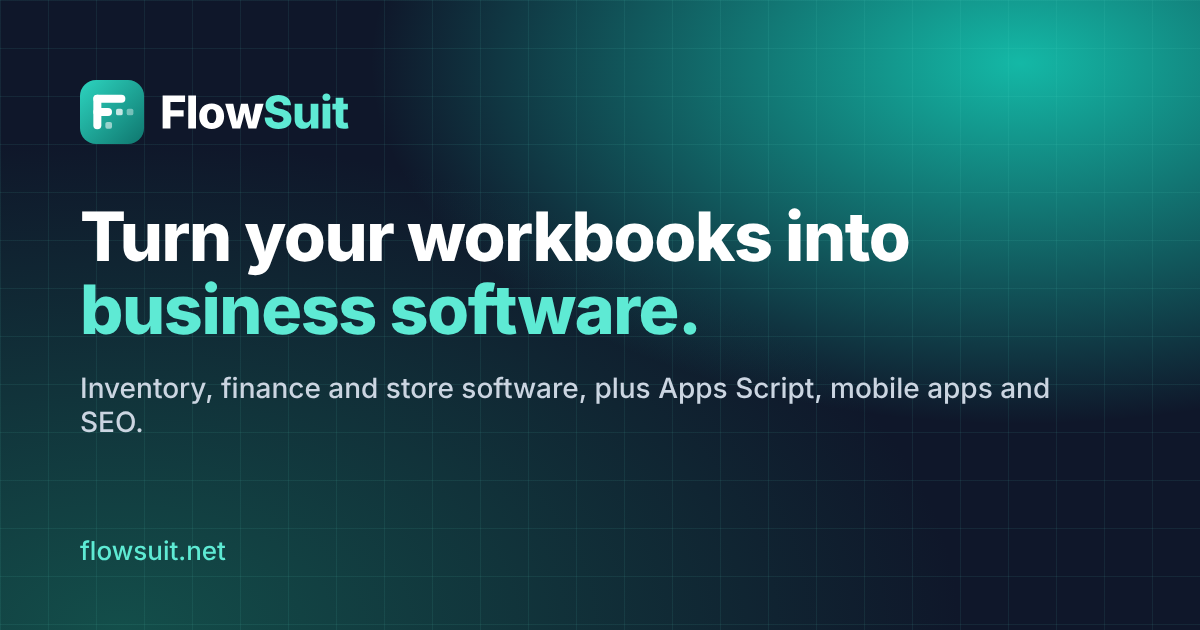
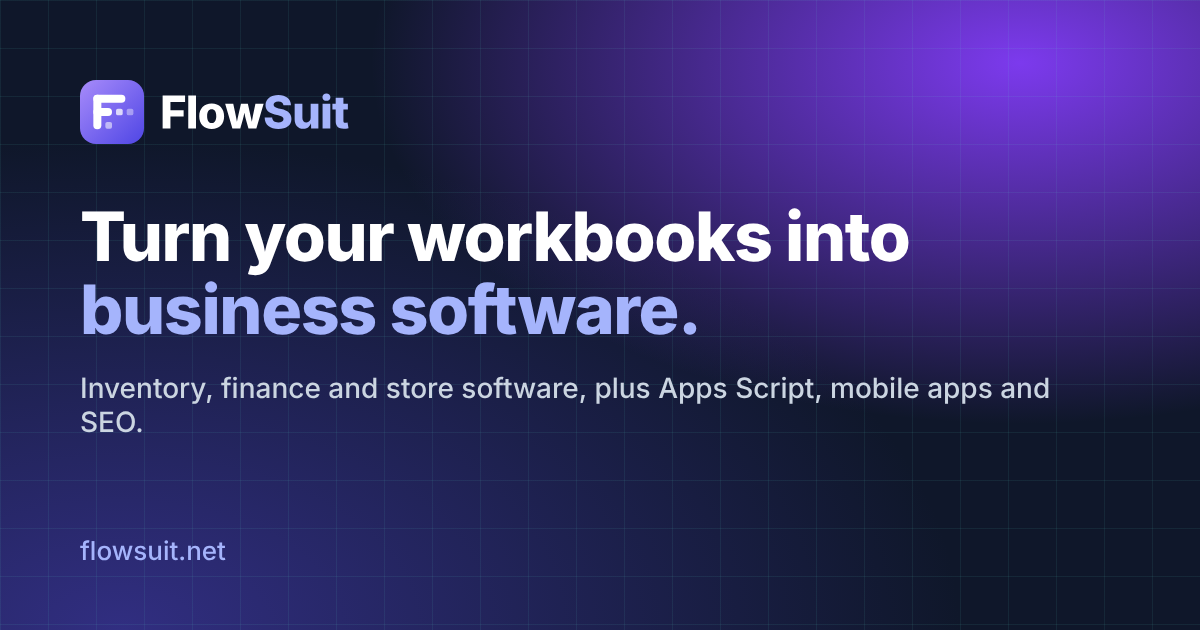
Switch to an indigo and violet theme and add a Reports section with charts
The teal palette is replaced by indigo, violet and an amber accent across
the CSS, logo, favicon and share image. The home page gains four animated
sample dashboards: cash line chart, revenue vs expenses bars, spending
donut and stock-level bars.

Claude-Session: https://claude.ai/code/session_01STXav5Nt7y8zb71EuFeD7Q

diff --git a/public/assets/css/style.css b/public/assets/css/style.css
@@ -1,10 +1,13 @@
 :root {
   --ink: #0f172a;
   --muted: #475569;
-  --brand: #0f766e;
-  --brand-dark: #115e59;
-  --brand-soft: #ccfbf1;
-  --soft: #f4f8f7;
+  --brand: #4f46e5;
+  --brand-2: #7c3aed;
+  --accent: #f59e0b;
+  --accent-soft: #fef3c7;
+  --brand-dark: #3730a3;
+  --brand-soft: #e0e7ff;
+  --soft: #f6f7ff;
   --line: #e2e8f0;
   --white: #ffffff;
   --warn-bg: #fef3c7;
@@ -93,7 +96,7 @@ nav a:hover { color: var(--brand); }
   display: flex; flex-direction: column; align-items: flex-start; padding: 24px; border-radius: var(--radius);
   background: var(--white); border: 1px solid var(--line); color: var(--ink); text-decoration: none; transition: border-color .15s, box-shadow .15s;
 }
-a.card:hover { border-color: var(--brand); box-shadow: 0 14px 34px rgba(15, 118, 110, .14); transform: translateY(-4px); }
+a.card:hover { border-color: var(--brand); box-shadow: 0 14px 34px rgba(79, 70, 229, .14); transform: translateY(-4px); }
 .card { transition: border-color .2s, box-shadow .2s, transform .2s; }
 .card-link .icon { transition: transform .2s; }
 a.card:hover .card-link .icon { transform: translateX(4px); }
@@ -150,10 +153,10 @@ details p { margin: 10px 0 0; color: var(--muted); }
 /* Hero background */
 .hero-bg { position: absolute; inset: 0; pointer-events: none; }
 .blob { position: absolute; border-radius: 50%; filter: blur(60px); opacity: .45; animation: drift 18s ease-in-out infinite alternate; }
-.blob-1 { width: 420px; height: 420px; background: #5eead4; top: -140px; right: -80px; }
-.blob-2 { width: 360px; height: 360px; background: #a7f3d0; bottom: -160px; left: -120px; animation-delay: -6s; }
-.grid-lines { position: absolute; inset: 0; background-image: linear-gradient(rgba(15,118,110,.06) 1px, transparent 1px), linear-gradient(90deg, rgba(15,118,110,.06) 1px, transparent 1px); background-size: 40px 40px; mask-image: radial-gradient(ellipse at 70% 30%, #000 20%, transparent 70%); -webkit-mask-image: radial-gradient(ellipse at 70% 30%, #000 20%, transparent 70%); }
-.text-gradient { background: linear-gradient(90deg, var(--brand), #14b8a6); -webkit-background-clip: text; background-clip: text; color: transparent; }
+.blob-1 { width: 420px; height: 420px; background: #a5b4fc; top: -140px; right: -80px; }
+.blob-2 { width: 360px; height: 360px; background: #ddd6fe; bottom: -160px; left: -120px; animation-delay: -6s; }
+.grid-lines { position: absolute; inset: 0; background-image: linear-gradient(rgba(79, 70, 229,.06) 1px, transparent 1px), linear-gradient(90deg, rgba(79, 70, 229,.06) 1px, transparent 1px); background-size: 40px 40px; mask-image: radial-gradient(ellipse at 70% 30%, #000 20%, transparent 70%); -webkit-mask-image: radial-gradient(ellipse at 70% 30%, #000 20%, transparent 70%); }
+.text-gradient { background: linear-gradient(90deg, var(--brand), var(--brand-2)); -webkit-background-clip: text; background-clip: text; color: transparent; }
 
 /* Industries strip */
 .industries { padding: 28px 0 8px; text-align: center; }
@@ -172,14 +175,14 @@ details p { margin: 10px 0 0; color: var(--muted); }
 .dash-body { display: grid; grid-template-columns: 52px 1fr; min-height: 260px; }
 .dash-nav { background: #0f172a; padding: 14px 0; display: grid; align-content: start; justify-items: center; gap: 14px; }
 .dash-nav i { width: 22px; height: 22px; border-radius: 6px; background: #334155; }
-.dash-nav i.is-on { background: #14b8a6; }
+.dash-nav i.is-on { background: var(--brand-2); }
 .dash-main { padding: 18px; display: grid; gap: 16px; }
 .dash-kpis { display: grid; grid-template-columns: repeat(3, 1fr); gap: 10px; }
 .dash-kpis div { padding: 12px; border-radius: 10px; background: var(--soft); border: 1px solid var(--line); }
 .dash-kpis small { display: block; color: var(--muted); font-size: .72rem; }
 .dash-kpis b { font-size: 1.1rem; }
 .dash-chart { display: flex; align-items: flex-end; gap: 10px; height: 130px; padding: 10px; border-radius: 10px; border: 1px solid var(--line); }
-.dash-chart span { flex: 1; height: var(--h); border-radius: 6px 6px 2px 2px; background: linear-gradient(180deg, #2dd4bf, var(--brand)); transform-origin: bottom; }
+.dash-chart span { flex: 1; height: var(--h); border-radius: 6px 6px 2px 2px; background: linear-gradient(180deg, #818cf8, var(--brand)); transform-origin: bottom; }
 .js .reveal .dash-chart span, .js .reveal.dash .dash-chart span { transform: scaleY(0); transition: transform .9s cubic-bezier(.2,.8,.2,1); }
 .js .reveal.is-visible .dash-chart span { transform: scaleY(1); }
 .dash-chart span:nth-child(2) { transition-delay: .06s; } .dash-chart span:nth-child(3) { transition-delay: .12s; }
@@ -203,7 +206,7 @@ details p { margin: 10px 0 0; color: var(--muted); }
 .side-link .icon { color: var(--brand); }
 .side-link:hover { background: var(--soft); }
 .side-link.is-active { background: var(--brand-soft); color: var(--brand-dark); font-weight: 600; }
-.side-cta { display: grid; gap: 6px; padding: 14px; border-radius: 12px; background: linear-gradient(135deg, var(--brand), #14b8a6); color: var(--white); }
+.side-cta { display: grid; gap: 6px; padding: 14px; border-radius: 12px; background: linear-gradient(135deg, var(--brand), var(--brand-2)); color: var(--white); }
 .side-cta span { font-size: .88rem; opacity: .9; }
 .side-cta .button { justify-self: start; background: var(--white); color: var(--brand) !important; border-color: var(--white); margin-top: 4px; }
 
@@ -216,7 +219,7 @@ details p { margin: 10px 0 0; color: var(--muted); }
 .inline-cta span { color: var(--muted); }
 
 /* CTA band background motion */
-.cta-band { background: linear-gradient(120deg, #0f766e, #14b8a6, #0f766e); background-size: 200% 200%; animation: sweep 12s ease infinite; }
+.cta-band { background: linear-gradient(120deg, #4338ca, #7c3aed, #4338ca); background-size: 200% 200%; animation: sweep 12s ease infinite; }
 
 /* Animations */
 @keyframes up { from { opacity: 0; transform: translateY(18px); } to { opacity: 1; transform: none; } }
@@ -261,7 +264,7 @@ details p { margin: 10px 0 0; color: var(--muted); }
 .h3 { font-size: 1.1rem; margin: 10px 0 6px; }
 
 /* Scroll progress and header shadow */
-.scroll-progress { position: fixed; top: 0; left: 0; z-index: 20; height: 3px; width: 100%; background: linear-gradient(90deg, var(--brand), #2dd4bf); transform-origin: left; transform: scaleX(var(--progress, 0)); }
+.scroll-progress { position: fixed; top: 0; left: 0; z-index: 20; height: 3px; width: 100%; background: linear-gradient(90deg, var(--brand), #818cf8); transform-origin: left; transform: scaleX(var(--progress, 0)); }
 .site-header { transition: box-shadow .2s; }
 .is-scrolled .site-header { box-shadow: 0 6px 24px rgba(15, 23, 42, .08); }
 
@@ -290,17 +293,17 @@ details p { margin: 10px 0 0; color: var(--muted); }
 .sheet-grid b, .sheet-grid i { padding: 6px 8px; border-right: 1px solid var(--line); border-bottom: 1px solid var(--line); font-style: normal; white-space: nowrap; overflow: hidden; }
 .sheet-grid b { background: #f8fafc; color: #94a3b8; font-weight: 500; text-align: center; }
 .sheet-grid .err { color: #dc2626; font-weight: 600; }
-.scan { position: absolute; left: 0; right: 0; top: 34px; height: 26px; background: linear-gradient(180deg, transparent, rgba(45, 212, 191, .35), transparent); animation: scan 2.8s ease-in-out infinite; }
+.scan { position: absolute; left: 0; right: 0; top: 34px; height: 26px; background: linear-gradient(180deg, transparent, rgba(129, 140, 248, .35), transparent); animation: scan 2.8s ease-in-out infinite; }
 @keyframes scan { 0% { transform: translateY(0); } 50% { transform: translateY(150px); } 100% { transform: translateY(0); } }
 .flow { position: absolute; left: 8%; top: 22%; width: 60%; height: 62%; overflow: visible; z-index: 0; }
 .sheet { z-index: 1; } .transform .mock-app { z-index: 2; } .toasts { z-index: 3; }
-.flow path { fill: none; stroke: #5eead4; stroke-width: 2; stroke-dasharray: 6 6; animation: dash 1.2s linear infinite; vector-effect: non-scaling-stroke; }
+.flow path { fill: none; stroke: #a5b4fc; stroke-width: 2; stroke-dasharray: 6 6; animation: dash 1.2s linear infinite; vector-effect: non-scaling-stroke; }
 .flow circle { fill: var(--brand); }
 @keyframes dash { to { stroke-dashoffset: -24; } }
 .transform .mock-app { position: absolute; right: 0; bottom: 30px; width: 72%; }
 .toasts { position: absolute; left: 0; bottom: 0; width: 60%; height: 44px; }
 .toast { position: absolute; left: 0; bottom: 0; display: inline-flex; align-items: center; gap: 8px; padding: 9px 14px; border-radius: 99px; background: var(--ink); color: var(--white); font-size: .82rem; font-weight: 500; box-shadow: 0 10px 24px rgba(15, 23, 42, .25); opacity: 0; animation: toast 9s ease infinite; white-space: nowrap; }
-.toast .icon { color: #5eead4; }
+.toast .icon { color: #a5b4fc; }
 .toast.t2 { animation-delay: 3s; } .toast.t3 { animation-delay: 6s; }
 @keyframes toast { 0% { opacity: 0; transform: translateY(14px) scale(.96); } 4%, 28% { opacity: 1; transform: none; } 33%, 100% { opacity: 0; transform: translateY(-10px); } }
 
@@ -314,22 +317,22 @@ details p { margin: 10px 0 0; color: var(--muted); }
 @keyframes marquee { to { transform: translateX(calc(-50% - 20px)); } }
 
 /* Dark "connected" section with the orbit diagram */
-.section-dark { background: radial-gradient(ellipse at 20% 40%, #134e4a, var(--ink) 60%); color: #e2e8f0; }
+.section-dark { background: radial-gradient(ellipse at 20% 40%, #312e81, var(--ink) 60%); color: #e2e8f0; }
 .section-dark .lead, .section-dark .ticks li { color: #cbd5e1; }
-.section-dark .eyebrow { background: rgba(45, 212, 191, .15); color: #5eead4; }
-.section-dark .ticks .icon { color: #5eead4; }
+.section-dark .eyebrow { background: rgba(129, 140, 248, .15); color: #a5b4fc; }
+.section-dark .ticks .icon { color: #a5b4fc; }
 .orbit { position: relative; width: 100%; max-width: 440px; aspect-ratio: 1; margin: 0 auto; }
 .orbit > svg { position: absolute; inset: 0; width: 100%; height: 100%; }
-.orbit .ring { fill: none; stroke: rgba(94, 234, 212, .25); stroke-width: 1.5; stroke-dasharray: 4 8; transform-origin: 200px 200px; animation: spin 40s linear infinite; }
-.orbit .link { stroke: rgba(94, 234, 212, .45); stroke-width: 2; stroke-dasharray: 6 6; animation: dash 1.2s linear infinite; }
-.orbit .packet { fill: #5eead4; filter: drop-shadow(0 0 6px #2dd4bf); }
+.orbit .ring { fill: none; stroke: rgba(165, 180, 252, .25); stroke-width: 1.5; stroke-dasharray: 4 8; transform-origin: 200px 200px; animation: spin 40s linear infinite; }
+.orbit .link { stroke: rgba(165, 180, 252, .45); stroke-width: 2; stroke-dasharray: 6 6; animation: dash 1.2s linear infinite; }
+.orbit .packet { fill: #a5b4fc; filter: drop-shadow(0 0 6px #818cf8); }
 @keyframes spin { to { transform: rotate(360deg); } }
-.node { position: absolute; transform: translate(-50%, -50%); display: grid; justify-items: center; gap: 6px; padding: 12px 14px; border-radius: 14px; background: rgba(15, 23, 42, .85); border: 1px solid rgba(94, 234, 212, .35); color: var(--white); font-size: .85rem; backdrop-filter: blur(6px); }
-.node .icon { width: 1.6em; height: 1.6em; color: #5eead4; }
-.node.hub { left: 50%; top: 50%; padding: 18px 20px; background: linear-gradient(135deg, var(--brand), #14b8a6); border: 0; box-shadow: 0 0 0 10px rgba(45, 212, 191, .12), 0 0 60px rgba(45, 212, 191, .45); animation: hub 3s ease-in-out infinite; }
+.node { position: absolute; transform: translate(-50%, -50%); display: grid; justify-items: center; gap: 6px; padding: 12px 14px; border-radius: 14px; background: rgba(15, 23, 42, .85); border: 1px solid rgba(165, 180, 252, .35); color: var(--white); font-size: .85rem; backdrop-filter: blur(6px); }
+.node .icon { width: 1.6em; height: 1.6em; color: #a5b4fc; }
+.node.hub { left: 50%; top: 50%; padding: 18px 20px; background: linear-gradient(135deg, var(--brand), var(--brand-2)); border: 0; box-shadow: 0 0 0 10px rgba(129, 140, 248, .12), 0 0 60px rgba(129, 140, 248, .45); animation: hub 3s ease-in-out infinite; }
 .node.hub .icon { color: var(--white); }
 .node.n1 { left: 50%; top: 15%; } .node.n2 { left: 80.25%; top: 67.5%; } .node.n3 { left: 19.75%; top: 67.5%; }
-@keyframes hub { 0%, 100% { box-shadow: 0 0 0 10px rgba(45, 212, 191, .12), 0 0 60px rgba(45, 212, 191, .45); } 50% { box-shadow: 0 0 0 18px rgba(45, 212, 191, .06), 0 0 80px rgba(45, 212, 191, .6); } }
+@keyframes hub { 0%, 100% { box-shadow: 0 0 0 10px rgba(129, 140, 248, .12), 0 0 60px rgba(129, 140, 248, .45); } 50% { box-shadow: 0 0 0 18px rgba(129, 140, 248, .06), 0 0 80px rgba(129, 140, 248, .6); } }
 
 /* Steps: line drawing across */
 .steps { position: relative; }
@@ -340,7 +343,7 @@ details p { margin: 10px 0 0; color: var(--muted); }
 
 /* Card spotlight that follows the cursor */
 .card, .panel { position: relative; overflow: hidden; }
-.card::before { content: ""; position: absolute; inset: 0; background: radial-gradient(240px circle at var(--mx, 50%) var(--my, -40%), rgba(45, 212, 191, .16), transparent 60%); opacity: 0; transition: opacity .3s; pointer-events: none; }
+.card::before { content: ""; position: absolute; inset: 0; background: radial-gradient(240px circle at var(--mx, 50%) var(--my, -40%), rgba(129, 140, 248, .16), transparent 60%); opacity: 0; transition: opacity .3s; pointer-events: none; }
 .card:hover::before { opacity: 1; }
 .card > * { position: relative; }
 .card-meta { color: var(--muted); font-size: .85rem; }
@@ -379,10 +382,10 @@ details p { margin: 10px 0 0; color: var(--muted); }
 
 /* Chat assistant */
 .chat { position: fixed; right: 20px; bottom: 20px; z-index: 50; display: grid; justify-items: end; gap: 12px; }
-.chat-toggle { display: inline-flex; align-items: center; gap: 10px; padding: 14px 20px; border: 0; border-radius: 99px; background: linear-gradient(135deg, var(--brand), #14b8a6); color: var(--white); font: 600 .95rem Inter, system-ui, sans-serif; cursor: pointer; box-shadow: 0 12px 30px rgba(15, 118, 110, .4); position: relative; }
+.chat-toggle { display: inline-flex; align-items: center; gap: 10px; padding: 14px 20px; border: 0; border-radius: 99px; background: linear-gradient(135deg, var(--brand), var(--brand-2)); color: var(--white); font: 600 .95rem Inter, system-ui, sans-serif; cursor: pointer; box-shadow: 0 12px 30px rgba(79, 70, 229, .4); position: relative; }
 .chat-toggle .icon { width: 1.4em; height: 1.4em; }
-.chat-toggle::before { content: ""; position: absolute; inset: 0; border-radius: inherit; box-shadow: 0 0 0 0 rgba(20, 184, 166, .5); animation: ring 2.6s ease-out infinite; }
-@keyframes ring { 0% { box-shadow: 0 0 0 0 rgba(20, 184, 166, .5); } 70%, 100% { box-shadow: 0 0 0 16px rgba(20, 184, 166, 0); } }
+.chat-toggle::before { content: ""; position: absolute; inset: 0; border-radius: inherit; box-shadow: 0 0 0 0 rgba(124, 58, 237, .5); animation: ring 2.6s ease-out infinite; }
+@keyframes ring { 0% { box-shadow: 0 0 0 0 rgba(124, 58, 237, .5); } 70%, 100% { box-shadow: 0 0 0 16px rgba(124, 58, 237, 0); } }
 .chat.is-open .chat-toggle { display: none; }
 .chat-panel { width: min(380px, calc(100vw - 32px)); height: min(560px, calc(100vh - 110px)); display: flex; flex-direction: column; border-radius: 18px; background: var(--white); border: 1px solid var(--line); box-shadow: 0 30px 70px rgba(15, 23, 42, .25); overflow: hidden; animation: up .25s ease both; }
 .chat-panel[hidden] { display: none; }
@@ -416,3 +419,84 @@ details p { margin: 10px 0 0; color: var(--muted); }
   .chat-toggle span { display: none; }
   .chat-toggle { padding: 15px; }
 }
+
+/* ---- v4: indigo theme and report charts ---- */
+.text-gradient { background: linear-gradient(90deg, var(--brand), var(--brand-2), #db2777); -webkit-background-clip: text; background-clip: text; }
+.button { background: linear-gradient(135deg, var(--brand), var(--brand-2)); border-color: transparent; }
+.button:hover { background: linear-gradient(135deg, var(--brand-dark), var(--brand)); border-color: transparent; }
+.button-ghost { background: transparent; border-color: var(--brand); }
+.button-ghost:hover { background: var(--brand-soft); border-color: var(--brand); }
+.button-light, .button-light:hover { background: var(--white); border-color: var(--white); }
+.side-cta .button { background: var(--white); }
+.steps li::before { background: linear-gradient(135deg, var(--brand), var(--brand-2)); }
+.blob-2 { background: #fbcfe8; }
+.eyebrow.center { display: table; margin-left: auto; margin-right: auto; }
+
+.section-charts { background: radial-gradient(ellipse at 10% 0%, #eef0ff, transparent 55%), radial-gradient(ellipse at 90% 100%, #f5edff, transparent 55%), var(--white); }
+.chart-grid { display: grid; grid-template-columns: repeat(2, 1fr); gap: 18px; margin-top: 28px; }
+.chart-card { margin: 0; padding: 22px; border-radius: var(--radius); background: var(--white); border: 1px solid var(--line); box-shadow: 0 12px 34px rgba(79, 70, 229, .08); display: grid; gap: 16px; align-content: start; transition: transform .2s, box-shadow .2s; }
+.chart-card:hover { transform: translateY(-4px); box-shadow: 0 20px 44px rgba(79, 70, 229, .16); }
+.chart-card figcaption { display: grid; gap: 2px; }
+.chart-card figcaption span { color: var(--muted); font-size: .85rem; font-weight: 600; text-transform: uppercase; letter-spacing: .05em; }
+.chart-card figcaption b { font-size: 1.5rem; letter-spacing: -.02em; }
+.chart-card figcaption em { font-style: normal; font-size: .85rem; color: var(--muted); display: inline-flex; align-items: center; gap: 6px; }
+.chart-card figcaption em.up { color: #16a34a; font-weight: 600; }
+.legend i, .donut-legend i { display: inline-block; width: 10px; height: 10px; border-radius: 3px; }
+.legend i + i, .legend i:not(:first-child) { margin-left: 8px; }
+.chart-note { text-align: center; color: var(--muted); font-size: .85rem; margin: 18px 0 0; }
+
+/* Line chart draws itself */
+.chart-line { width: 100%; height: auto; overflow: visible; }
+.chart-line .gridline line { stroke: var(--line); stroke-width: 1; }
+.chart-line .line { fill: none; stroke: var(--brand); stroke-width: 3; stroke-linecap: round; stroke-linejoin: round; stroke-dasharray: 1; stroke-dashoffset: 0; }
+.chart-line .dot { fill: var(--brand-2); stroke: var(--white); stroke-width: 2; }
+.js .reveal .chart-line .line { stroke-dashoffset: 1; transition: stroke-dashoffset 1.6s cubic-bezier(.4,0,.2,1) .2s; }
+.js .reveal .chart-line .area, .js .reveal .chart-line .dot { opacity: 0; transition: opacity .6s ease 1.4s; }
+.js .reveal.is-visible .chart-line .line { stroke-dashoffset: 0; }
+.js .reveal.is-visible .chart-line .area, .js .reveal.is-visible .chart-line .dot { opacity: 1; }
+.js .reveal.is-visible .chart-line .dot { animation: dot-pulse 2s ease-in-out 2s infinite; transform-box: fill-box; transform-origin: center; }
+@keyframes dot-pulse { 0%, 100% { transform: scale(1); } 50% { transform: scale(1.5); } }
+
+/* Grouped bars grow up */
+.chart-bars { display: flex; align-items: flex-end; justify-content: space-between; gap: 8px; height: 150px; padding-bottom: 22px; border-bottom: 1px solid var(--line); }
+.bar-group { position: relative; flex: 1; height: 100%; display: flex; align-items: flex-end; justify-content: center; gap: 4px; }
+.bar-group small { position: absolute; bottom: -22px; left: 0; right: 0; text-align: center; color: var(--muted); font-size: .75rem; }
+.bar { width: 40%; max-width: 18px; height: var(--h); border-radius: 5px 5px 2px 2px; background: linear-gradient(180deg, #818cf8, var(--brand)); transform-origin: bottom; }
+.bar-alt { background: linear-gradient(180deg, #fcd34d, var(--accent)); }
+.js .reveal .bar { transform: scaleY(0); transition: transform .9s cubic-bezier(.2,.8,.2,1); }
+.js .reveal.is-visible .bar { transform: scaleY(1); }
+.bar-group:nth-child(2) .bar { transition-delay: .08s; } .bar-group:nth-child(3) .bar { transition-delay: .16s; }
+.bar-group:nth-child(4) .bar { transition-delay: .24s; } .bar-group:nth-child(5) .bar { transition-delay: .32s; }
+.bar-group:nth-child(6) .bar { transition-delay: .4s; }
+
+/* Donut fills in segment by segment */
+.donut-wrap { display: grid; grid-template-columns: 150px 1fr; gap: 20px; align-items: center; }
+.donut { width: 150px; height: 150px; }
+.donut circle { fill: none; stroke-width: 6; }
+.donut-track { stroke: var(--soft); }
+.donut-seg { stroke-linecap: butt; transition: opacity .5s ease calc(var(--i) * .2s + .2s); }
+.js .reveal .donut-seg { opacity: 0; }
+.js .reveal.is-visible .donut-seg { opacity: 1; }
+.js .reveal .donut { transform: rotate(-90deg); transition: transform 1.2s cubic-bezier(.2,.8,.2,1); }
+.js .reveal.is-visible .donut { transform: none; }
+.donut-num { font-size: 7px; font-weight: 800; text-anchor: middle; fill: var(--ink); }
+.donut-sub { font-size: 3.6px; text-anchor: middle; fill: var(--muted); }
+.donut-legend { list-style: none; margin: 0; padding: 0; display: grid; gap: 10px; font-size: .92rem; }
+.donut-legend li { display: flex; align-items: center; gap: 8px; }
+.donut-legend b { margin-left: auto; }
+
+/* Horizontal stock bars */
+.hbars { list-style: none; margin: 0; padding: 0; display: grid; gap: 12px; }
+.hbars li { display: grid; grid-template-columns: 1fr 44px; gap: 4px 10px; align-items: center; font-size: .9rem; }
+.hbars span { grid-column: 1 / -1; display: flex; align-items: center; gap: 8px; }
+.hbars .pill { font-size: .7rem; padding: 1px 8px; font-style: normal; }
+.hbars i { display: block; height: 10px; border-radius: 99px; background: linear-gradient(90deg, var(--brand), var(--brand-2)); width: var(--w); transform-origin: left; }
+.hbars li.is-low i { background: linear-gradient(90deg, #f97316, var(--accent)); }
+.hbars b { font-size: .85rem; color: var(--muted); text-align: right; }
+.js .reveal .hbars i { transform: scaleX(0); transition: transform 1s cubic-bezier(.2,.8,.2,1); }
+.js .reveal.is-visible .hbars i { transform: scaleX(1); }
+.hbars li:nth-child(2) i { transition-delay: .1s; } .hbars li:nth-child(3) i { transition-delay: .2s; }
+.hbars li:nth-child(4) i { transition-delay: .3s; } .hbars li:nth-child(5) i { transition-delay: .4s; }
+
+@media (max-width: 900px) { .chart-grid { grid-template-columns: 1fr; } }
+@media (max-width: 420px) { .donut-wrap { grid-template-columns: 1fr; justify-items: center; } .donut-legend { width: 100%; } }

diff --git a/app/views/charts.php b/app/views/charts.php
@@ -1,0 +1,76 @@
+<?php
+// Sample dashboards shown on the home page. Figures are illustrative, not customer results.
+$cash = [42, 45, 44, 51, 49, 56, 60, 58, 66, 71, 69, 78];
+$cashPoints = [];
+foreach ($cash as $i => $v) {
+    $cashPoints[] = round(10 + $i * (300 / (count($cash) - 1)), 1) . ',' . round(130 - ($v - 30) * 2, 1);
+}
+$cashLine = 'M' . implode(' L', $cashPoints);
+$cashArea = $cashLine . ' L310,130 L10,130 Z';
+$last = explode(',', end($cashPoints));
+
+$months = ['May' => [62, 48], 'Jun' => [70, 52], 'Jul' => [66, 55], 'Aug' => [81, 57], 'Sep' => [88, 60], 'Oct' => [96, 63]];
+
+$spend = [['Stock purchases', 46, 'var(--brand)'], ['Salaries', 28, 'var(--brand-2)'], ['Rent and utilities', 16, 'var(--accent)'], ['Other', 10, '#94a3b8']];
+
+$stock = [['Cooking oil 5L', 82, false], ['Rice 10kg', 64, false], ['Sugar 1kg', 18, true], ['Tea 950g', 47, false], ['Flour 20kg', 12, true]];
+?>
+<div class="chart-grid">
+  <figure class="chart-card reveal">
+    <figcaption><span>Cash in the bank</span><b data-count="78400">78,400</b><em class="up">+86% in 12 weeks</em></figcaption>
+    <svg class="chart-line" viewBox="0 0 320 140" role="img" aria-label="Line chart: cash balance rising over 12 weeks">
+      <defs>
+        <linearGradient id="cash-fill" x1="0" y1="0" x2="0" y2="1">
+          <stop offset="0" stop-color="#6366f1" stop-opacity=".35"/>
+          <stop offset="1" stop-color="#6366f1" stop-opacity="0"/>
+        </linearGradient>
+      </defs>
+      <g class="gridline"><line x1="10" y1="30" x2="310" y2="30"/><line x1="10" y1="63" x2="310" y2="63"/><line x1="10" y1="96" x2="310" y2="96"/><line x1="10" y1="130" x2="310" y2="130"/></g>
+      <path class="area" d="<?= $cashArea ?>" fill="url(#cash-fill)"/>
+      <path class="line" d="<?= $cashLine ?>" pathLength="1"/>
+      <circle class="dot" cx="<?= $last[0] ?>" cy="<?= $last[1] ?>" r="5"/>
+    </svg>
+  </figure>
+
+  <figure class="chart-card reveal">
+    <figcaption><span>Revenue vs expenses</span><b>Last 6 months</b>
+      <em class="legend"><i style="background:var(--brand)"></i>Revenue <i style="background:var(--accent)"></i>Expenses</em></figcaption>
+    <div class="chart-bars" role="img" aria-label="Bar chart: revenue growing faster than expenses from May to October">
+      <?php foreach ($months as $m => [$rev, $exp]): ?>
+        <div class="bar-group">
+          <span class="bar" style="--h:<?= $rev ?>%"></span><span class="bar bar-alt" style="--h:<?= $exp ?>%"></span>
+          <small><?= e($m) ?></small>
+        </div>
+      <?php endforeach; ?>
+    </div>
+  </figure>
+
+  <figure class="chart-card reveal">
+    <figcaption><span>Where the money goes</span><b>October</b></figcaption>
+    <div class="donut-wrap">
+      <svg class="donut" viewBox="0 0 42 42" role="img" aria-label="Donut chart of monthly spending by category">
+        <circle class="donut-track" cx="21" cy="21" r="15.915"/>
+        <?php $offset = 25; foreach ($spend as $i => [$label, $pct, $color]): ?>
+          <circle class="donut-seg" cx="21" cy="21" r="15.915" stroke="<?= $color ?>" stroke-dasharray="<?= $pct - 1 ?> <?= 101 - $pct ?>" stroke-dashoffset="<?= $offset ?>" style="--i:<?= $i ?>"/>
+        <?php $offset -= $pct; endforeach; ?>
+        <text x="21" y="20" class="donut-num">100%</text><text x="21" y="26" class="donut-sub">tracked</text>
+      </svg>
+      <ul class="donut-legend">
+        <?php foreach ($spend as [$label, $pct, $color]): ?>
+          <li><i style="background:<?= $color ?>"></i><?= e($label) ?><b><?= $pct ?>%</b></li>
+        <?php endforeach; ?>
+      </ul>
+    </div>
+  </figure>
+
+  <figure class="chart-card reveal">
+    <figcaption><span>Stock levels</span><b>2 items to reorder</b></figcaption>
+    <ul class="hbars" aria-label="Stock level per item, low items highlighted">
+      <?php foreach ($stock as [$item, $level, $low]): ?>
+        <li class="<?= $low ? 'is-low' : '' ?>"><span><?= e($item) ?><?php if ($low): ?> <em class="pill pill-low">Reorder</em><?php endif; ?></span>
+          <i style="--w:<?= $level ?>%"></i><b><?= $level ?>%</b></li>
+      <?php endforeach; ?>
+    </ul>
+  </figure>
+</div>
+<p class="chart-note">Sample data. Your dashboards show your own numbers.</p>

diff --git a/app/views/home.php b/app/views/home.php
@@ -141,6 +141,15 @@
   </div>
 </section>
 
+<section class="section section-charts">
+  <div class="wrap">
+    <p class="eyebrow reveal center">Reports</p>
+    <h2 class="section-title reveal">See your numbers, not cells.</h2>
+    <p class="section-lead reveal">Charts build themselves from the data you already enter. No formulas, no copy and paste.</p>
+    <?php require __DIR__ . '/charts.php'; ?>
+  </div>
+</section>
+
 <section class="section section-soft">
   <div class="wrap">
     <h2 class="section-title reveal">Products</h2>

diff --git a/app/views/layout.php b/app/views/layout.php
@@ -18,7 +18,7 @@
   <meta property="og:image:width" content="1200">
   <meta property="og:image:height" content="630">
   <meta name="twitter:card" content="summary_large_image">
-  <meta name="theme-color" content="#0f766e">
+  <meta name="theme-color" content="#4f46e5">
   <link rel="apple-touch-icon" href="/assets/logo/apple-touch-icon.png">
   <link rel="icon" href="/assets/favicon.svg" type="image/svg+xml">
   <link rel="preconnect" href="https://fonts.googleapis.com">
